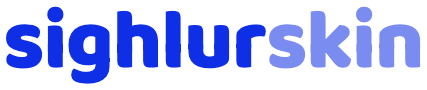
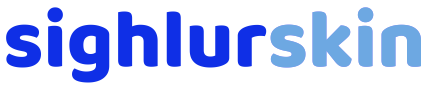
Make "skin" in the wordmark azure
- The "skin" half of the wordmark is now solid azure (#6DA8E2) instead of
  cobalt at 55% opacity, on every page; bump the stylesheet version.
- Redraw email-wordmark.png (the logo at the top of every email) with azure
  "skin", same size and position. make_wordmark.py rebuilds it from the font.

diff --git a/welcome.html b/welcome.html
@@ -13,7 +13,7 @@
 <link rel="preconnect" href="https://fonts.googleapis.com">
 <link rel="preconnect" href="https://fonts.gstatic.com" crossorigin>
 <link href="https://fonts.googleapis.com/css2?family=Baloo+2:wght@800&family=Plus+Jakarta+Sans:wght@400;500;600;700&family=JetBrains+Mono:wght@500&display=swap" rel="stylesheet">
-<link rel="stylesheet" href="styles.css?v=31" />
+<link rel="stylesheet" href="styles.css?v=32" />
 <!-- Arriving from the signup button: start under the cobalt panel it filled the screen with, then lift it. -->
 <script>try { if (sessionStorage.getItem('ss-arrive')) { sessionStorage.removeItem('ss-arrive'); document.documentElement.classList.add('arriving'); } } catch (e) {}</script>
 <script>window.va = window.va || function () { (window.vaq = window.vaq || []).push(arguments); };</script>

diff --git a/index.html b/index.html
@@ -15,7 +15,7 @@
 <link rel="preconnect" href="https://fonts.googleapis.com">
 <link rel="preconnect" href="https://fonts.gstatic.com" crossorigin>
 <link href="https://fonts.googleapis.com/css2?family=Baloo+2:wght@800&family=Plus+Jakarta+Sans:wght@400;500;600;700&family=JetBrains+Mono:wght@500&display=swap" rel="stylesheet">
-<link rel="stylesheet" href="styles.css?v=31" />
+<link rel="stylesheet" href="styles.css?v=32" />
 <script>window.va = window.va || function () { (window.vaq = window.vaq || []).push(arguments); };</script>
 <script defer src="/_vercel/insights/script.js"></script>
 </head>

diff --git a/unsubscribe.html b/unsubscribe.html
@@ -13,7 +13,7 @@
 <link rel="preconnect" href="https://fonts.googleapis.com">
 <link rel="preconnect" href="https://fonts.gstatic.com" crossorigin>
 <link href="https://fonts.googleapis.com/css2?family=Baloo+2:wght@800&family=Plus+Jakarta+Sans:wght@400;500;600;700&family=JetBrains+Mono:wght@500&display=swap" rel="stylesheet">
-<link rel="stylesheet" href="styles.css?v=31" />
+<link rel="stylesheet" href="styles.css?v=32" />
 <script>window.va = window.va || function () { (window.vaq = window.vaq || []).push(arguments); };</script>
 <script defer src="/_vercel/insights/script.js"></script>
 </head>

diff --git a/styles.css b/styles.css
@@ -40,7 +40,7 @@ body {
   border-radius: 50% 50% 50% 14%;
 }
 .wordmark { font: 800 28px/1 var(--display); color: var(--cobalt); letter-spacing: -0.01em; }
-.wordmark span { opacity: .55; }
+.wordmark span { color: var(--azure); }  /* "skin" */
 
 /* Centre stage */
 .stage {

diff --git a/make_wordmark.py b/make_wordmark.py
@@ -1,0 +1,69 @@
+#!/usr/bin/env python3
+"""Draw email-wordmark.png, the sighlurskin wordmark at the top of every email.
+
+Emails can't count on the brand font loading, so the welcome email shows the
+wordmark as an image (api/subscribe.js shows it at 142x30; the file is 3x that
+for sharp screens). Baloo 2 ExtraBold, "sighlur" in cobalt, "skin" in azure,
+on a transparent background with 6 px around the letters.
+
+Usage: python3 make_wordmark.py
+"""
+import os
+from PIL import Image, ImageDraw, ImageFont
+
+HERE = os.path.dirname(os.path.abspath(__file__))
+BALOO = os.path.join(HERE, "identity", "fonts", "Baloo2-Variable.ttf")
+
+COBALT = (15, 47, 230)    # #0F2FE6
+AZURE = (109, 168, 226)   # #6DA8E2
+
+W, H = 427, 90
+PAD = 6                   # transparent space around the letters
+K = 8                     # supersample factor
+
+
+def baloo(px):
+    f = ImageFont.truetype(BALOO, px)
+    f.set_variation_by_axes([800])
+    return f
+
+
+def layers(size, x, y, canvas):
+    """Alpha of the whole wordmark and of "skin" alone, baseline origin at (x, y)."""
+    f = baloo(size)
+    alpha = Image.new("L", canvas, 0)
+    skin = Image.new("L", canvas, 0)
+    d = ImageDraw.Draw(alpha)
+    w1 = d.textlength("sighlur", font=f)
+    d.text((x, y), "sighlur", font=f, fill=255, anchor="ls")
+    d.text((x + w1, y), "skin", font=f, fill=255, anchor="ls")
+    ImageDraw.Draw(skin).text((x + w1, y), "skin", font=f, fill=255, anchor="ls")
+    return alpha, skin
+
+
+def main():
+    box_w, box_h = (W - 2 * PAD) * K, (H - 2 * PAD) * K
+
+    # Measure the drawn letters (not the font's text box) on a roomy scratch canvas,
+    # then scale so they fill the padded box.
+    scratch = (W * K * 3, H * K * 3)
+    size = 80 * K
+    l, t, r, b = layers(size, W * K * 0.2, H * K * 2, scratch)[0].getbbox()
+    size = int(size * min(box_w / (r - l), box_h / (b - t)))
+    l, t, r, b = layers(size, W * K * 0.2, H * K * 2, scratch)[0].getbbox()
+
+    # Place the letters centered in the image.
+    x = W * K * 0.2 + (W * K - (r - l)) / 2 - l
+    y = H * K * 2 + (H * K - (b - t)) / 2 - t
+    alpha, skin = layers(size, x, y, (W * K, H * K))
+
+    rgb = Image.new("RGB", (W * K, H * K), COBALT)
+    rgb.paste(AZURE, (0, 0), skin)
+    out = rgb.reduce(K).convert("RGBA")
+    out.putalpha(alpha.reduce(K))
+    out.save(os.path.join(HERE, "email-wordmark.png"), optimize=True)
+    print("wrote email-wordmark.png", out.size, "font size", round(size / K, 1))
+
+
+if __name__ == "__main__":
+    main()
